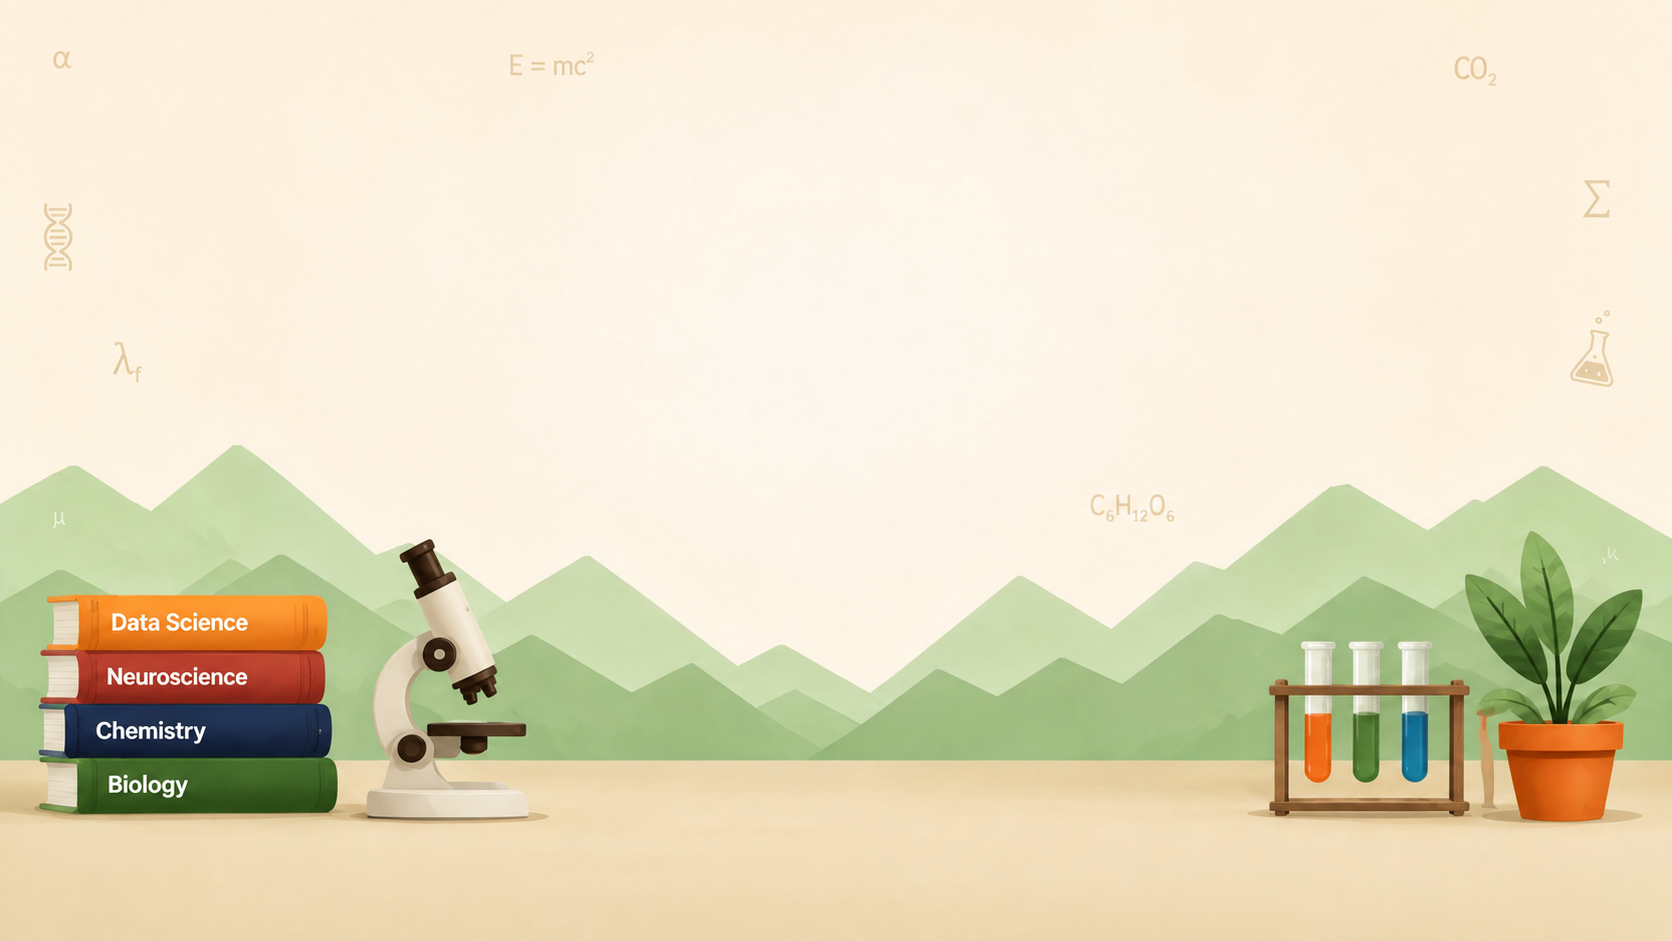
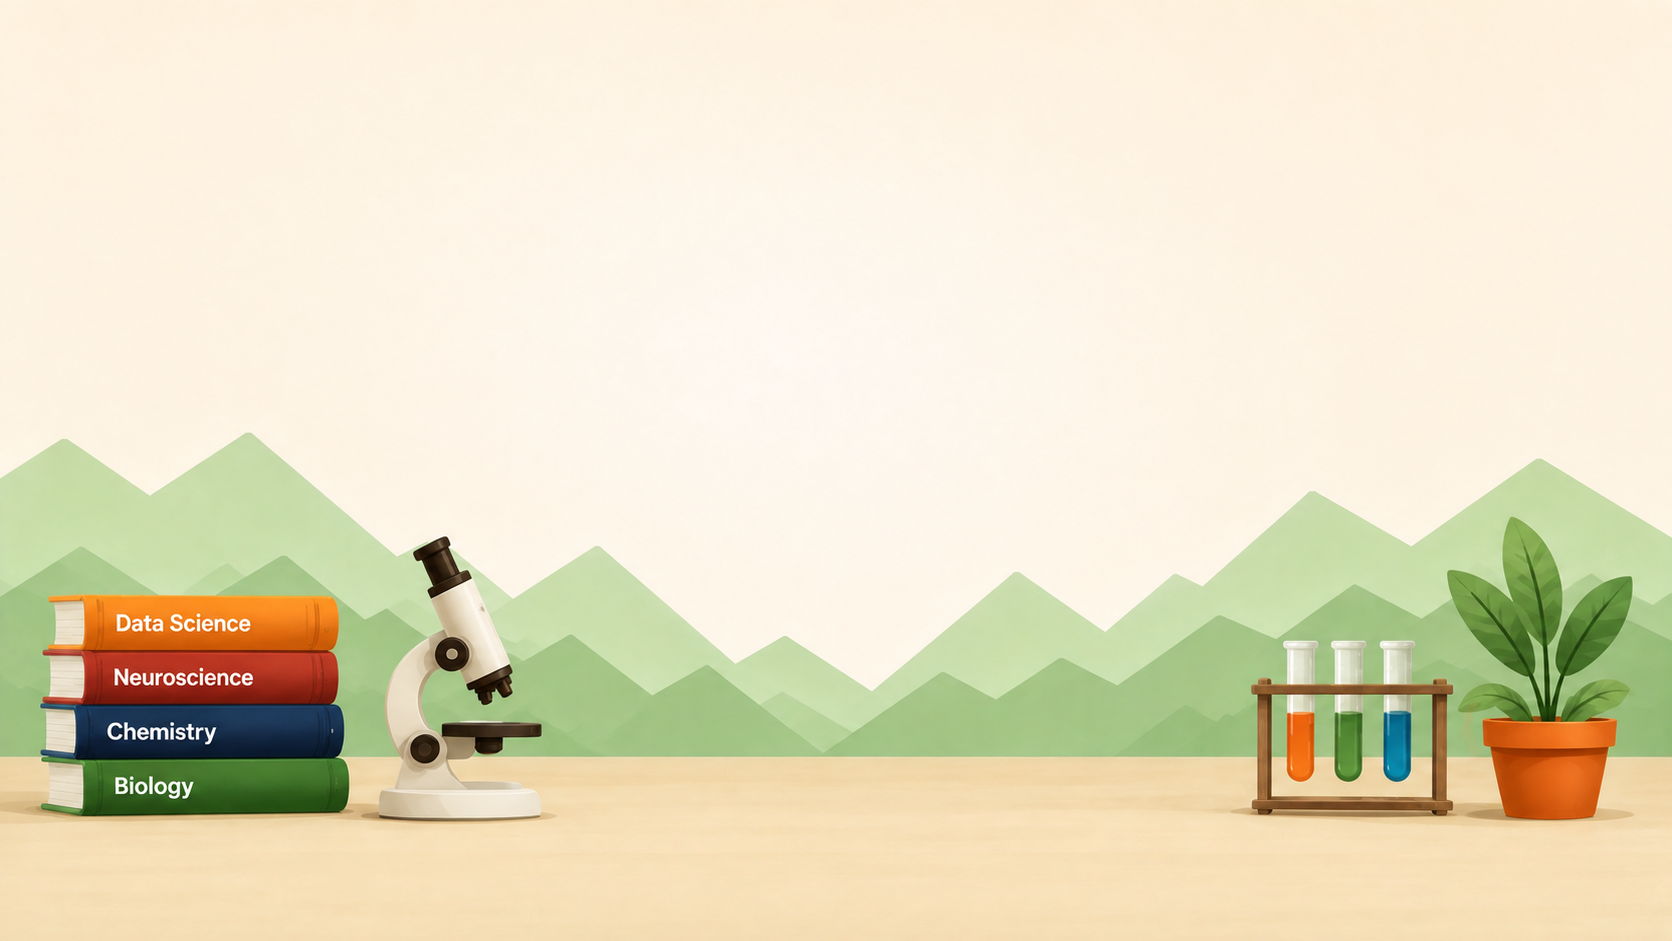
Replace hero scene art, densify ambient floating symbols
New hero-scene.png (same 1672x941 dimensions, so no CSS repositioning
needed) has no symbols baked into the art itself, unlike the previous
version — so the dynamic SymbolField overlay now carries the whole effect.
Increased its density (rows 6->9, cols 14->20) and opacity (0.1-0.16 ->
0.16-0.24) to compensate and read clearly on its own.

diff --git a/src/components/Hero.jsx b/src/components/Hero.jsx
@@ -111,9 +111,9 @@ export default function Hero() {
           reads near the edges instead of competing with the actual content */}
       <div className="hero-ambient-symbol-field" aria-hidden="true">
         <SymbolField
-          rows={6}
-          cols={14}
-          opacityRange={[0.1, 0.16]}
+          rows={9}
+          cols={20}
+          opacityRange={[0.16, 0.24]}
           fontSizeRange={[12, 20]}
           colors={['var(--symbol-tan)', 'var(--cover-dark)']}
         />
